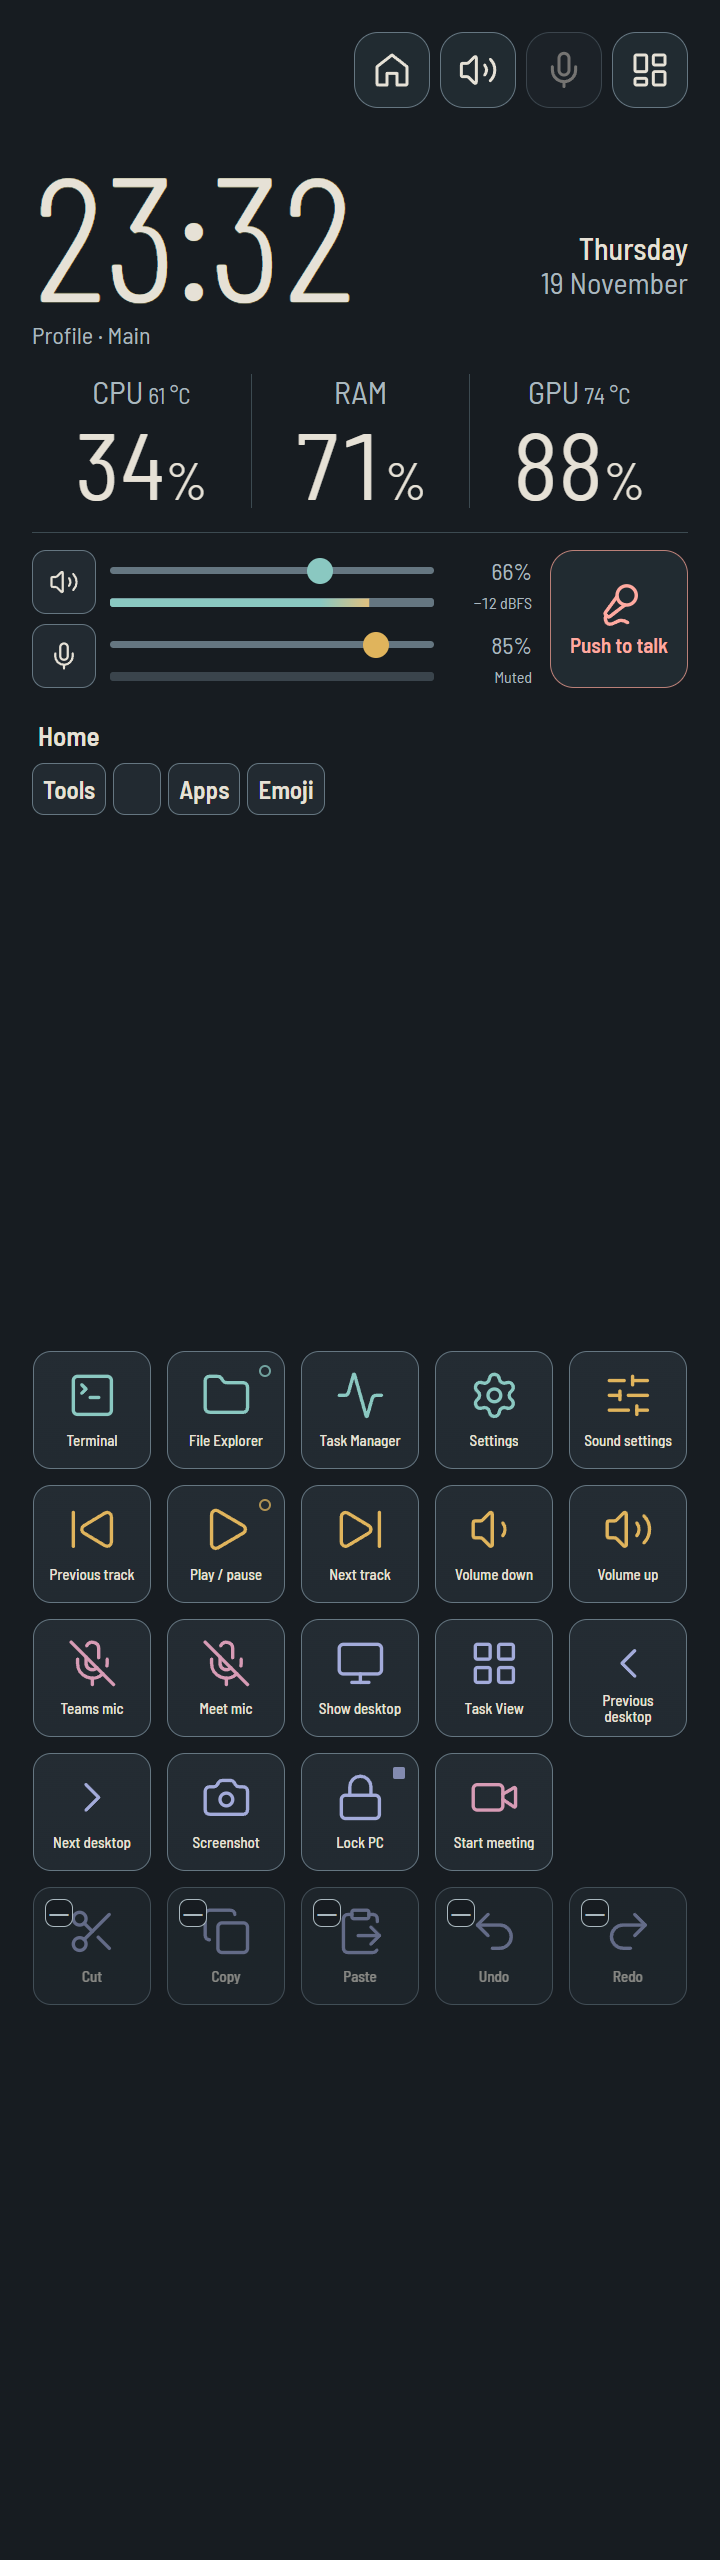
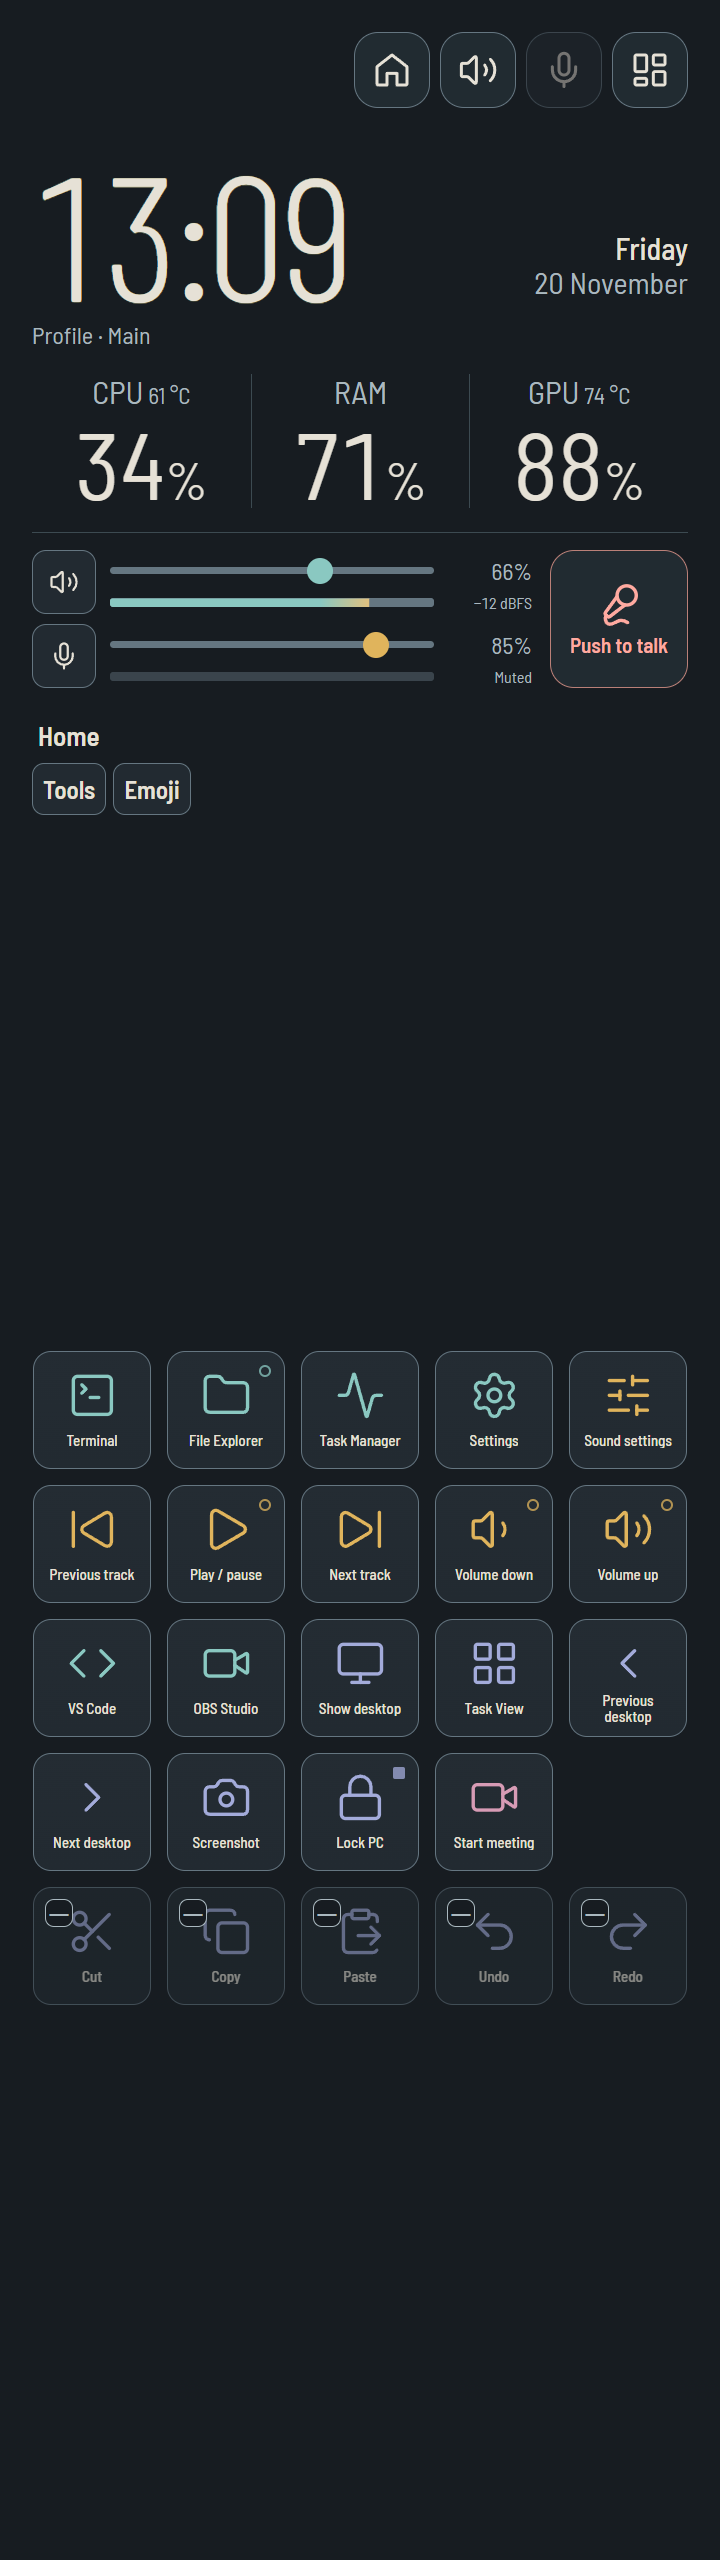
Show clean app previews and automatic shortcut switching

diff --git a/docs/index.html b/docs/index.html
@@ -3,10 +3,10 @@
 <head>
   <meta charset="utf-8">
   <meta name="viewport" content="width=device-width, initial-scale=1">
-  <meta name="description" content="Lastra turns the CORSAIR XENEON EDGE into a touchscreen macro deck for Windows, with app-aware shortcuts, audio controls, and live system stats.">
+  <meta name="description" content="Lastra is a touchscreen macro deck for the CORSAIR XENEON EDGE. It automatically switches shortcuts with the active Windows app and shows audio controls and live PC stats.">
   <meta name="theme-color" content="#151b20">
   <title>Lastra · A Windows macro deck for XENEON EDGE</title>
-  <link rel="stylesheet" href="site.css">
+  <link rel="stylesheet" href="site.css?v=2">
   <link rel="icon" href="data:,">
 </head>
 <body>
@@ -23,8 +23,8 @@
     <section class="hero shell" aria-labelledby="hero-title">
       <div class="hero-copy">
         <p class="platform">CORSAIR XENEON EDGE <span aria-hidden="true">/</span> Windows</p>
-        <h1 id="hero-title">Your shortcuts.<br>On your touchscreen.</h1>
-        <p>Lastra turns the XENEON EDGE into a macro deck that follows the app you’re using. Tap to run a shortcut, adjust the Windows mixer, or check what your PC is doing.</p>
+        <h1 id="hero-title">Switch apps.<br>Your shortcuts follow.</h1>
+        <p>When you switch to another Windows app, Lastra automatically loads its shortcuts on your XENEON EDGE. Build your own macro pages and keep the Windows mixer and live PC stats within reach.</p>
         <div class="hero-links">
           <a class="button" href="https://github.com/FabioRM/lastra-deck/releases/latest">Download for Windows</a>
           <a class="text-link" href="https://github.com/FabioRM/lastra-deck#readme">Read the documentation</a>
@@ -32,35 +32,43 @@
         <p class="requirements">Windows 10 or 11 · x64 · Open source under MIT</p>
       </div>
       <figure class="deck">
-        <img src="preview-states.png" width="2560" height="720" alt="Lastra Home showing touchscreen shortcut keys, Windows audio controls, and CPU, RAM, and GPU readings.">
-        <figcaption>Deck Keys in landscape, with sample telemetry</figcaption>
+        <a href="preview-home.png"><img src="preview-home.png" width="2560" height="720" alt="Lastra Home showing touchscreen shortcut keys, Windows audio controls, and CPU, RAM, and GPU readings."></a>
+        <figcaption>Deck Keys with an example Home layout and sample telemetry</figcaption>
       </figure>
     </section>
     <section class="features" id="features" aria-labelledby="features-title">
       <div class="shell">
-        <h2 id="features-title">What you can put on the panel</h2>
-        <div class="feature-grid">
-          <article>
-            <h3>App-aware shortcuts</h3>
-            <p>Build pages in the visual editor, assign them to Windows apps, and run shortcuts or multi-step macros with a tap, hold, or double tap.</p>
-            <a href="https://github.com/FabioRM/lastra-deck#profile-editor">Explore the editor</a>
-          </article>
-          <article>
-            <h3>Audio and media</h3>
-            <p>Adjust Windows output and app volumes, mute microphones, or use push-to-talk. Dashboard brings playback, the calendar, and a Pomodoro timer together.</p>
-            <a href="https://github.com/FabioRM/lastra-deck#deck-views">See the deck views</a>
-          </article>
-          <article>
+        <h2 id="features-title">Lastra on the panel</h2>
+        <article class="feature">
+          <div class="feature-copy">
+            <h3>Shortcuts for the active app</h3>
+            <div>
+              <p>Bring Visual Studio Code to the foreground and the example layout switches to this page automatically. Lastra opens the page you assigned to the app, its built-in shortcut pack, or a page with common shortcuts. Use the visual editor to assign your own shortcuts and multi-step macros.</p>
+              <a href="https://github.com/FabioRM/lastra-deck#pages-and-keys">See how automatic pages work</a>
+            </div>
+          </div>
+          <a class="feature-image" href="preview-vscode.png"><img src="preview-vscode.png" width="2560" height="720" loading="lazy" alt="The automatic Visual Studio Code page with Command Palette, Quick Open, Find in Files, Source Control, Terminal, and other shortcuts."></a>
+        </article>
+        <article class="feature">
+          <div class="feature-copy">
+            <h3>Dashboard and media</h3>
+            <div>
+              <p>Control playback, check the calendar, and run a Pomodoro timer from Dashboard. Deck Keys also keeps Windows volume, mute, and push-to-talk controls within reach.</p>
+              <a href="https://github.com/FabioRM/lastra-deck#deck-views">Explore the deck views</a>
+            </div>
+          </div>
+          <a class="feature-image" href="preview-dashboard.png"><img src="preview-dashboard.png" width="1536" height="432" loading="lazy" alt="Dashboard showing the calendar, an active Pomodoro timer, and playback controls for a sample track."></a>
+        </article>
+        <article class="feature">
+          <div class="feature-copy">
             <h3>Live PC stats</h3>
-            <p>Track CPU, GPU, memory, temperatures, and available power readings in an overview you can arrange. Open charts to see how readings change over time.</p>
-            <a href="https://github.com/FabioRM/lastra-deck/blob/main/docs/telemetry.md">Read the telemetry guide</a>
-          </article>
-        </div>
-        <details class="demo">
-          <summary>Watch the deck demo</summary>
-          <img src="preview-demo.gif" width="900" height="254" loading="lazy" alt="Lastra switches between Home, app views, Dashboard, Stats, and the scrollable emoji picker.">
-          <p>The demo uses sample media and telemetry.</p>
-        </details>
+            <div>
+              <p>Arrange readings for CPU, GPU, memory, temperatures, and power when available. Switch between cards, charts, and a readings list to see what’s happening now and how it’s changing.</p>
+              <a href="https://github.com/FabioRM/lastra-deck/blob/main/docs/telemetry.md">Read the telemetry guide</a>
+            </div>
+          </div>
+          <a class="feature-image" href="preview-stats.png"><img src="preview-stats.png" width="2560" height="720" loading="lazy" alt="Stats overview with sample CPU power, GPU and memory load, display refresh rate, frame rate, disk activity, and temperature."></a>
+        </article>
       </div>
     </section>
     <section class="setup shell" id="setup" aria-labelledby="setup-title">

diff --git a/docs/site.css b/docs/site.css
@@ -44,19 +44,16 @@ h1 { margin-block: .65rem 1.25rem; font-size: clamp(2.65rem, 7vw, 5.5rem); lette
 .text-link { font-weight: 620; }
 .requirements { margin-top: .9rem; font-size: .94rem; color: var(--muted); }
 .deck { margin-top: 2.6rem; }
-.deck img { width: 100%; border: 1px solid #53636d; border-radius: .7rem; box-shadow: 0 16px 40px #0004; }
+.deck a, .feature-image { display: block; border-radius: .7rem; }
+.deck img, .feature-image img { width: 100%; border: 1px solid #53636d; border-radius: inherit; box-shadow: 0 16px 40px #0004; }
 .deck figcaption { margin-top: .65rem; color: var(--muted); font-size: .875rem; }
 
 .features { background: var(--surface); border-block: 1px solid var(--border); padding-block: clamp(2.75rem, 5vw, 5rem); }
 h2 { font-size: clamp(1.85rem, 4.5vw, 3rem); letter-spacing: -.055em; }
-.feature-grid { display: grid; grid-template-columns: repeat(3, 1fr); gap: 2rem; margin-top: 2rem; }
-.feature-grid article { border-top: 1px solid #657a82; padding-top: 1.15rem; }
-h3 { font-size: 1.3rem; letter-spacing: -.025em; }
-.feature-grid p { margin-block: .7rem .9rem; color: var(--muted); }
-.demo { margin-top: 2.3rem; border-top: 1px solid var(--border); padding-top: 1rem; }
-.demo summary { width: fit-content; cursor: pointer; color: var(--accent); font-weight: 650; }
-.demo img { width: 100%; border: 1px solid var(--border); border-radius: .5rem; margin-top: 1rem; }
-.demo p { color: var(--muted); font-size: .875rem; margin-top: .5rem; }
+.feature { margin-top: clamp(2rem, 4.5vw, 4rem); padding-top: 1.5rem; border-top: 1px solid #53636d; }
+.feature-copy { display: grid; grid-template-columns: .8fr 1.2fr; gap: .75rem 3rem; margin-bottom: 1.3rem; }
+h3 { font-size: clamp(1.35rem, 3vw, 2rem); letter-spacing: -.035em; }
+.feature-copy p { margin-bottom: .45rem; color: var(--muted); }
 
 .setup { display: grid; grid-template-columns: .9fr 1.1fr; gap: 2rem 4rem; padding-block: clamp(2.75rem, 6vw, 5rem); }
 .setup p { margin-top: .85rem; color: var(--muted); }
@@ -68,6 +65,6 @@ h3 { font-size: 1.3rem; letter-spacing: -.025em; }
 
 @media (max-width: 48rem) {
   .shell { width: calc(100% - 2rem); }
-  .feature-grid, .setup { grid-template-columns: 1fr; }
+  .feature-copy, .setup { grid-template-columns: 1fr; }
   .setup { gap: 1.2rem; }
 }

diff --git a/README.md b/README.md
@@ -1,19 +1,21 @@
 # Lastra
 
-Lastra turns the **CORSAIR XENEON EDGE** into a touchscreen macro deck for Windows 10 and 11. It follows the foreground app, runs shortcuts and macros, and puts the Windows mixer, media controls, and system telemetry within reach. It runs on Electron and works while iCUE is closed.
+Lastra turns the **CORSAIR XENEON EDGE** into a touchscreen macro deck for Windows 10 and 11. **Switch apps and Lastra automatically loads the shortcuts for the new foreground app.** Run macros and keep the Windows mixer, media controls, and system telemetry within reach. Lastra runs on Electron and works while iCUE is closed.
 
 [Download for Windows x64](https://github.com/FabioRM/lastra-deck/releases/latest) · [Project site](https://fabiorm.github.io/lastra-deck/) · [Changelog](CHANGELOG.md) · [Report an issue](https://github.com/FabioRM/lastra-deck/issues)
 
-![Lastra demo showing the scrolling Emoji grid, Dashboard playback, and Stats graphs](docs/preview-demo.gif)
+![Lastra Deck Keys showing an example Home layout with shortcuts, audio controls, and sample telemetry](docs/preview-home.png)
 
-The loop opens **Emoji** from **Home**, then shows **Dashboard** and **Stats** full screen. Follow the playback controls, the system overview, and the GPU graphs before the deck returns to Home. Media and telemetry use sample data.
+Bring an app like Visual Studio Code to the foreground and Deck Keys opens its shortcut page. Assign your own pages in the editor or use the included shortcut packs.
 
 [Getting started](#getting-started) · [Deck views](#deck-views) · [Profile editor](#profile-editor) · [Local MCP integration](#local-mcp-integration) · [License](#license)
 
 <details>
-<summary>Static deck previews</summary>
+<summary>Visual Studio Code, Dashboard, and portrait previews</summary>
 
-![Landscape Deck Keys with gesture feedback, telemetry, and the Windows mixer](docs/preview-states.png)
+![The automatically selected Visual Studio Code shortcut page](docs/preview-vscode.png)
+
+![Dashboard with a calendar, Pomodoro timer, and sample playback](docs/preview-dashboard.png)
 
 <a href="docs/preview-portrait.png"><img src="docs/preview-portrait.png" alt="Deck Keys in portrait with the mixer above the macro grid" width="225"></a>
 
